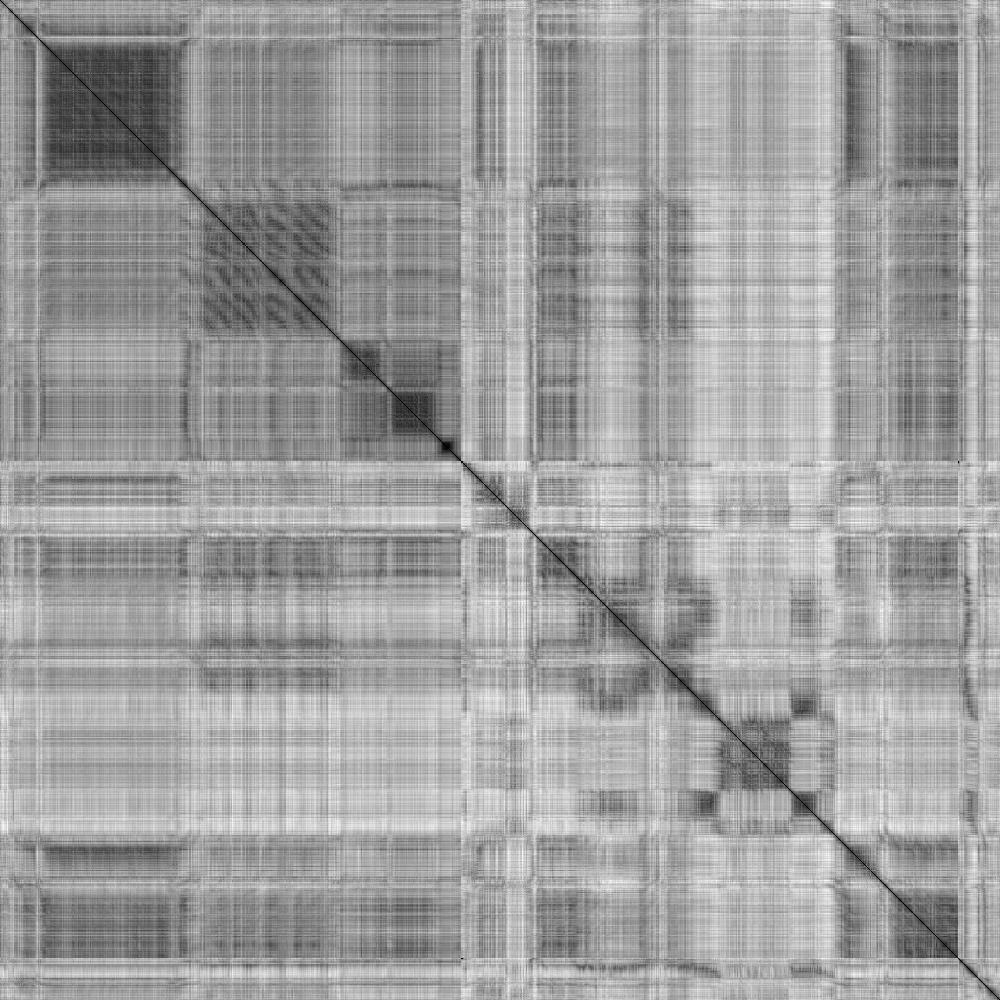
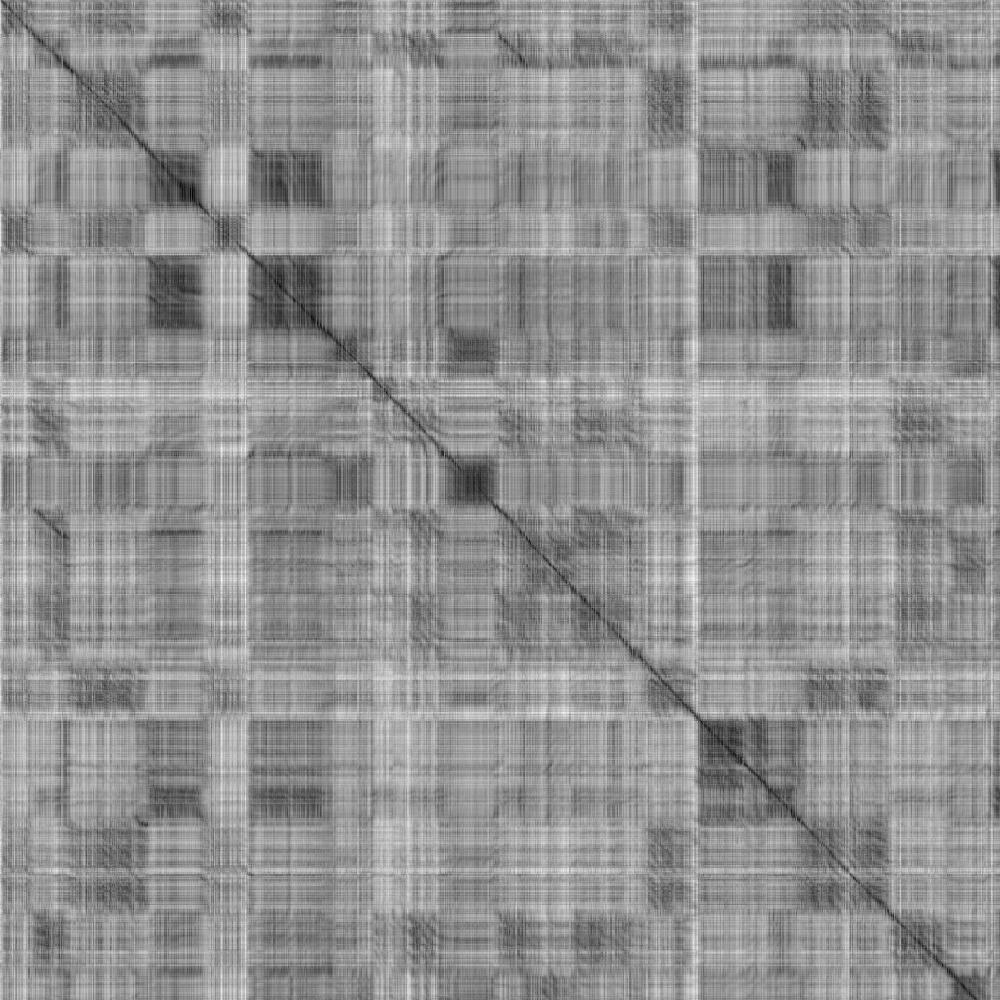
Tet

diff --git a/ali.py b/ali.py
@@ -212,13 +212,9 @@ def main(_):
     net_dZ_name = os.path.join(save_dir, 'net_dZ.npz')
     net_dJ_name = os.path.join(save_dir, 'net_dJ.npz')
 
-    data_files = glob(os.path.join("./data", FLAGS.dataset, "*.jpg"))
+    data_files = glob(os.path.join("./data", FLAGS.dataset, "train/*.jpg"))
     # sample_seed = np.random.uniform(low=-1, high=1, size=(FLAGS.sample_size, z_dim)).astype(np.float32)
     sample_seed = np.random.normal(loc=0.0, scale=1.0, size=(FLAGS.sample_size, z_dim)).astype(np.float32)
-
-    merged = tf.summary.merge_all()
-    logger = tf.summary.FileWriter('./logs', sess.graph)
-    tf.global_variables_initializer().run()
 
     # dataset: 0 for loam, 1 for mnist
     dataset = 0
@@ -229,7 +225,7 @@ def main(_):
 
         ## load parameters
         #load_de = tl.files.load_npz(path=os.path.join("./checkpoint", "loam_64_64/"), name="net_de_2600.npz")
-        load_en = tl.files.load_npz(path=os.path.join("./checkpoint", "loam_64_64/"), name="net_en_2200.npz")
+        load_en = tl.files.load_npz(path=os.path.join("./checkpoint", "loam_64_64/"), name="net_en_1600.npz")
         #load_dX = tl.files.load_npz(path=os.path.join("./checkpoint", "loam_64_64/"), name="net_dX_2600.npz")
         #load_dZ = tl.files.load_npz(path=os.path.join("./checkpoint", "loam_64_64/"), name="net_dZ_2600.npz")
         #load_dJ = tl.files.load_npz(path=os.path.join("./checkpoint", "loam_64_64/"), name="net_dJ_2600.npz")
@@ -244,26 +240,44 @@ def main(_):
 
         ## evaulate data
         sample_len = 1000
-        data_files.sort()
-        H_code = np.zeros([sample_len, 512]).astype(np.float32)
-        for id in range(H_code.shape[0]):
-            sample_file = data_files[id+5000]
+        train_files = glob(os.path.join("./data", FLAGS.dataset, "train/*.jpg"))
+        test_files = glob(os.path.join("./data", FLAGS.dataset, "test_T5_R0.5/*.jpg"))
+        train_files.sort()
+        test_files.sort()
+        
+        ## Extract Train data code
+        train_code = np.zeros([sample_len, 512]).astype(np.float32)
+        for id in range(train_code.shape[0]):
+            sample_file = train_files[id]
             sample = get_image(sample_file, FLAGS.image_size, dataset, is_crop=FLAGS.is_crop, resize_w=FLAGS.output_size, is_grayscale=0)
             sample_image = np.array(sample).astype(np.float32)
             sample_image = sample_image.reshape([1,64,64,3])
             print ("Load data {}".format(sample_file))
             feed_dict={real_images: sample_image}
-            H_code[id]  = sess.run(fake_Z, feed_dict=feed_dict)
+            train_code[id]  = sess.run(fake_Z, feed_dict=feed_dict)
 
-        print ("Code Extraction done!")
+        print ("Train code extraction done!")
+
+        ## Extract Test data code
+        test_code = np.zeros([sample_len, 512]).astype(np.float32)
+        for id in range(test_code.shape[0]):
+            sample_file = test_files[id]
+            sample = get_image(sample_file, FLAGS.image_size, dataset, is_crop=FLAGS.is_crop, resize_w=FLAGS.output_size, is_grayscale=0)
+            sample_image = np.array(sample).astype(np.float32)
+            sample_image = sample_image.reshape([1,64,64,3])
+            print ("Load data {}".format(sample_file))
+            feed_dict={real_images: sample_image}
+            test_code[id]  = sess.run(fake_Z, feed_dict=feed_dict)
+
+        print ("Test code extraction done!")
 
         #np.set_printoptions(threshold='nan') 
         
         ## Measure the Euclidean Distance
-        D_Euclid = np.zeros([H_code.shape[0], H_code.shape[0]])
-        for x in range(H_code.shape[0]):
-            for y in range(H_code.shape[0]):
-                D_Euclid[x,y] = np.linalg.norm(H_code[x]-H_code[y])
+        D_Euclid = np.zeros([train_code.shape[0], test_code.shape[0]])
+        for x in range(train_code.shape[0]):
+            for y in range(test_code.shape[0]):
+                D_Euclid[x,y] = np.linalg.norm(train_code[x]-test_code[y])
 
         '''
         ## Measure the Manhattan Distance
@@ -285,18 +299,24 @@ def main(_):
         '''
         '''
         ## Measure the Cosine Difference
-        D_Cosin = np.zeros([H_code.shape[0], H_code.shape[0]])
-        for x in range(H_code.shape[0]):
-            for y in range(H_code.shape[0]):
-                D_Cosin[x,y] = np.sum(H_code[x]*H_code[y])/(np.linalg.norm(H_code[x])*np.linalg.norm(H_code[y]))
+        D_Cosin = np.zeros([train_code.shape[0], test_code.shape[0]])
+        for x in range(train_code.shape[0]):
+            for y in range(test_code.shape[0]):
+                D_Cosin[x,y] = np.sum(train_code[x]*test_code[y])/(np.linalg.norm(train_code[x])*np.linalg.norm(test_code[y]))
         '''
         ## Measure vector corrcoeffience
         #D_coeff = np.corrcoef([H_code[id] for id in range(H_code.shape[0])])
         
         scipy.misc.imsave('f_map.jpg', D_Euclid * 255)
-        
+        #scipy.misc.imsave('f_map.jpg', D_Cosin * 255)
+
     else:
         ##========================= TRAIN MODELS ================================##
+
+        merged = tf.summary.merge_all()
+        logger = tf.summary.FileWriter('./logs', sess.graph)
+        tf.global_variables_initializer().run()
+
         iter_counter = 0
         for epoch in range(FLAGS.epoch):
             ## shuffle data
@@ -408,7 +428,7 @@ def main(_):
 
                     print("[*] Saving checkpoints SUCCESS!")
 
-    logger.close()
+        logger.close()
 
 if __name__ == '__main__':
     tf.app.run()
